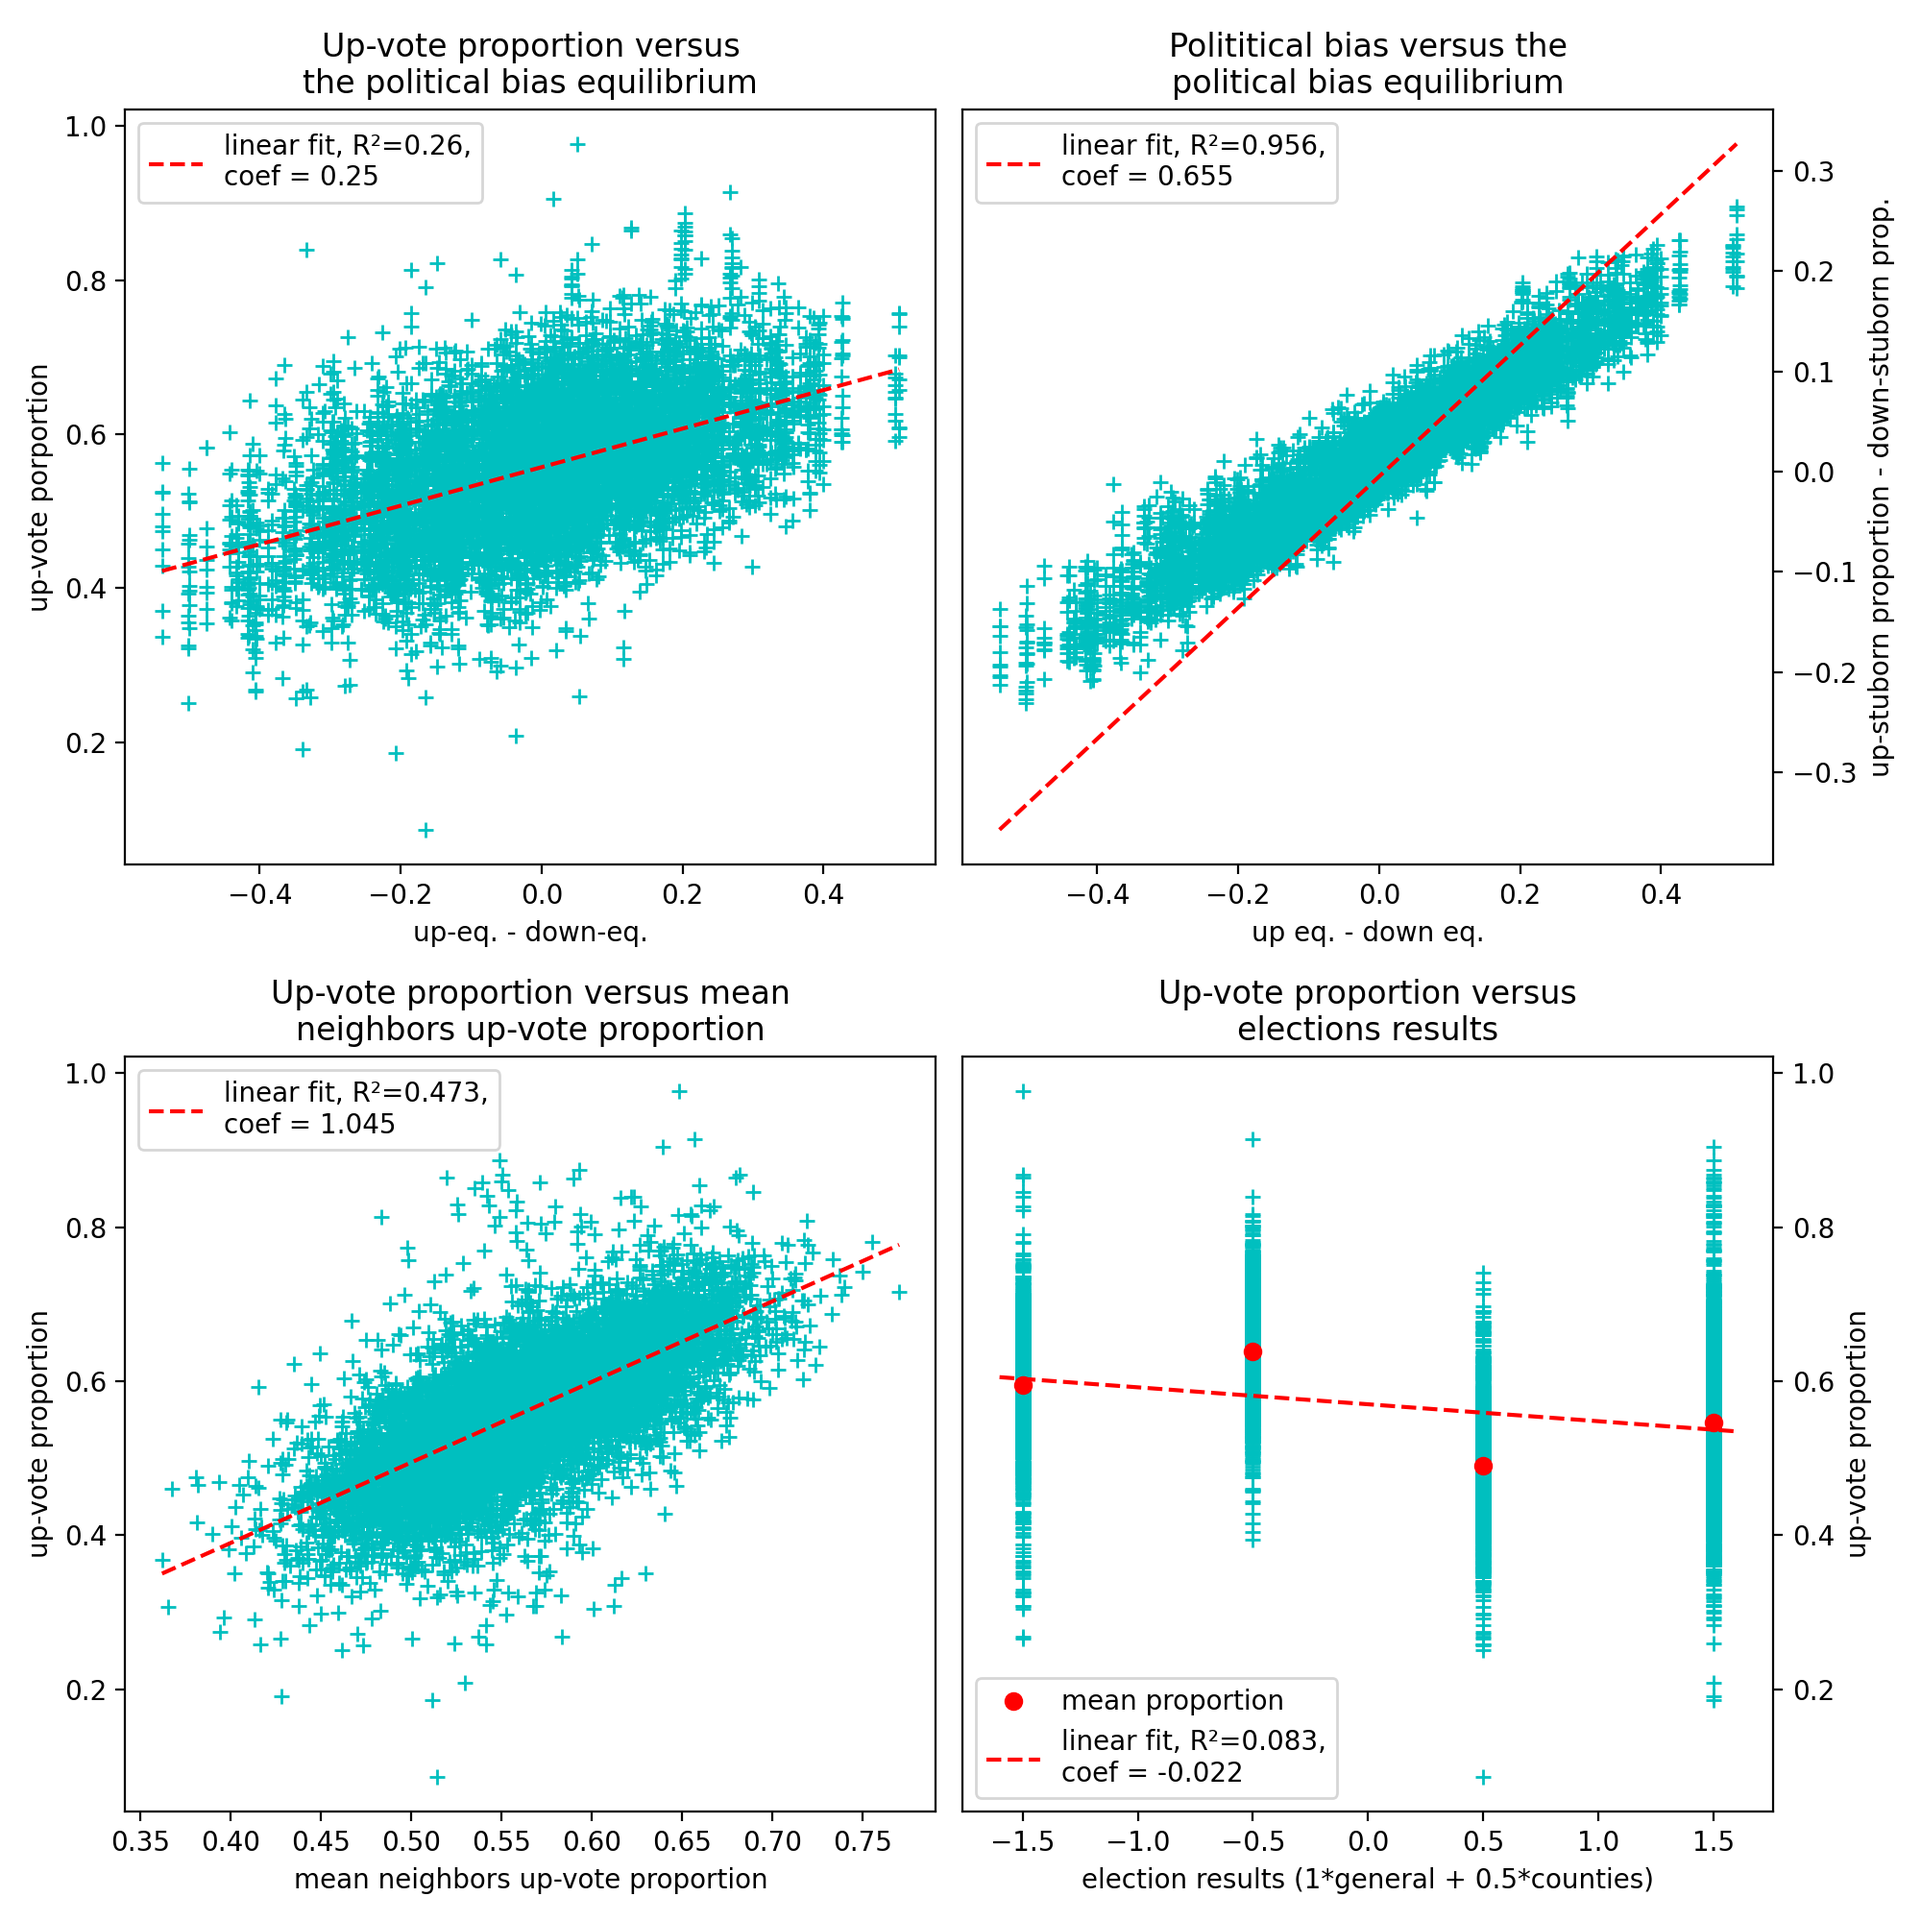
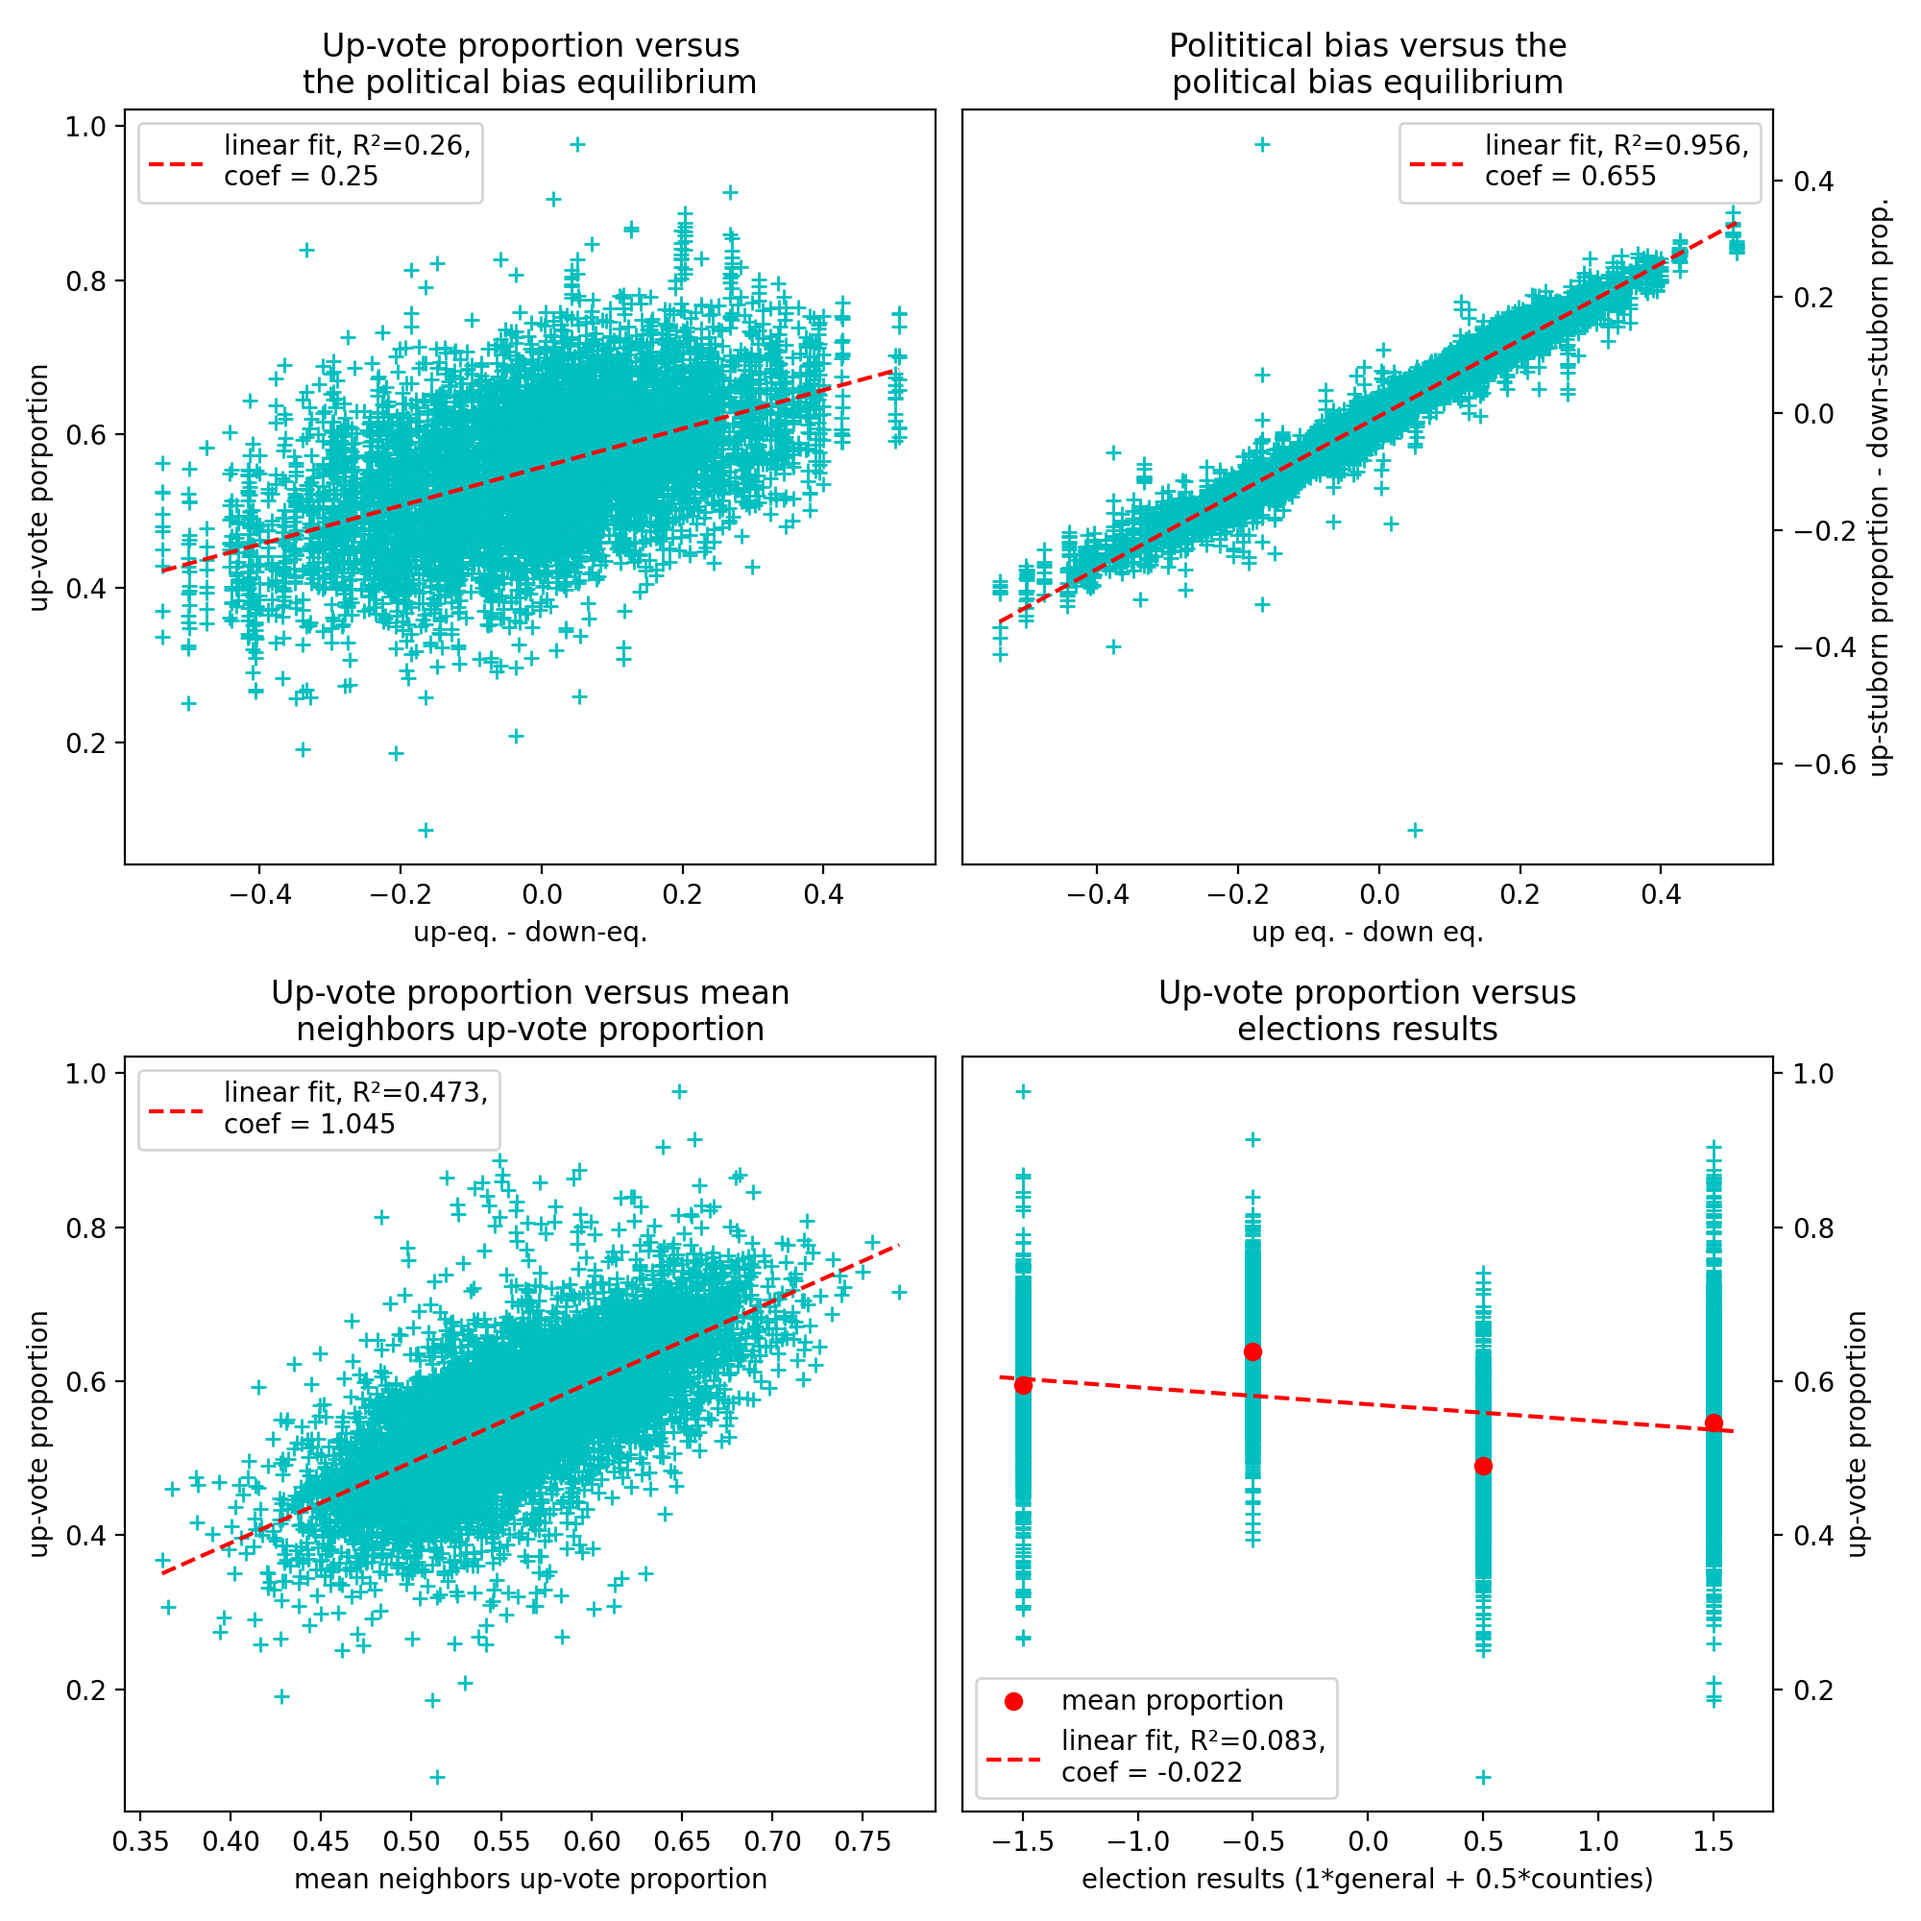
update

diff --git a/postprocessing/postprocessing_simulation_1.py b/postprocessing/postprocessing_simulation_1.py
@@ -136,12 +136,17 @@ ax1.legend()
 X_eq_vs_bias = []
 Y_eq_vs_bias = []
 for i in range(N_try):
-	ax2.plot(stuborn_equilibrium[1] - stuborn_equilibrium[0],
-	         simulation_data[i, -1, 3, :] - simulation_data[i, -1, 2, :], "+c")
+	y = np.divide(
+			simulation_data[i, -1, 3, :],
+			simulation_data[i, -1, 3, :] + simulation_data[i, -1, 1, :]
+		) - np.divide(
+			simulation_data[i, -1, 2, :],
+			simulation_data[i, -1, 2, :] + simulation_data[i, -1, 0, :]
+		)
+
+	ax2.plot(stuborn_equilibrium[1] - stuborn_equilibrium[0], y, "+c")
 	X_eq_vs_bias.extend(stuborn_equilibrium[1] - stuborn_equilibrium[0])
-	Y_eq_vs_bias.extend(
-		np.divide(simulation_data[i, -1, 3, :], simulation_data[i, -1, 1, :] + simulation_data[i, -1, 3, :]) - 
-		np.divide(simulation_data[i, -1, 2, :], simulation_data[i, -1, 0, :] + simulation_data[i, -1, 2, :]))
+	Y_eq_vs_bias.extend(y)
 
 reg_eq_vs_bias = LinearRegression().fit(
 	np.expand_dims(X_eq_vs_bias, 1),
